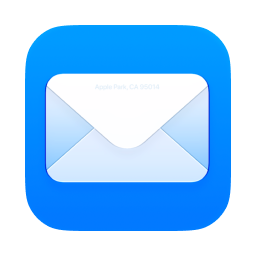
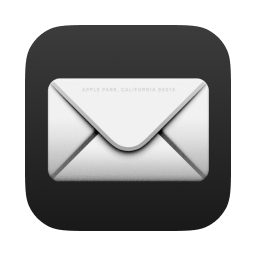
ui: 更新邮箱与站内信的独立应用图标
将用户提供的图标移入对应模块，邮箱使用蓝色信封，站内信使用黑色信封；邮箱素材与现有文件一致，站内信替换为独立图标。同步能力清单和发布说明，应用注册测试7项通过。

diff --git a/RELEASE_NOTES_PENDING.md b/RELEASE_NOTES_PENDING.md
@@ -13,6 +13,8 @@
 
 ## 功能优化
 
+- 邮箱和站内信更换为各自独立的新图标，方便在启动器和 Dock 中区分。
+
 - Agent 对话顶栏的上下文用量仅显示进度条，具体用量和自动整理阈值可悬停查看。
 
 - 自动化的每日时间范围改为弹出选择器，可直接选择小时和分钟，并一键恢复不限时间。
